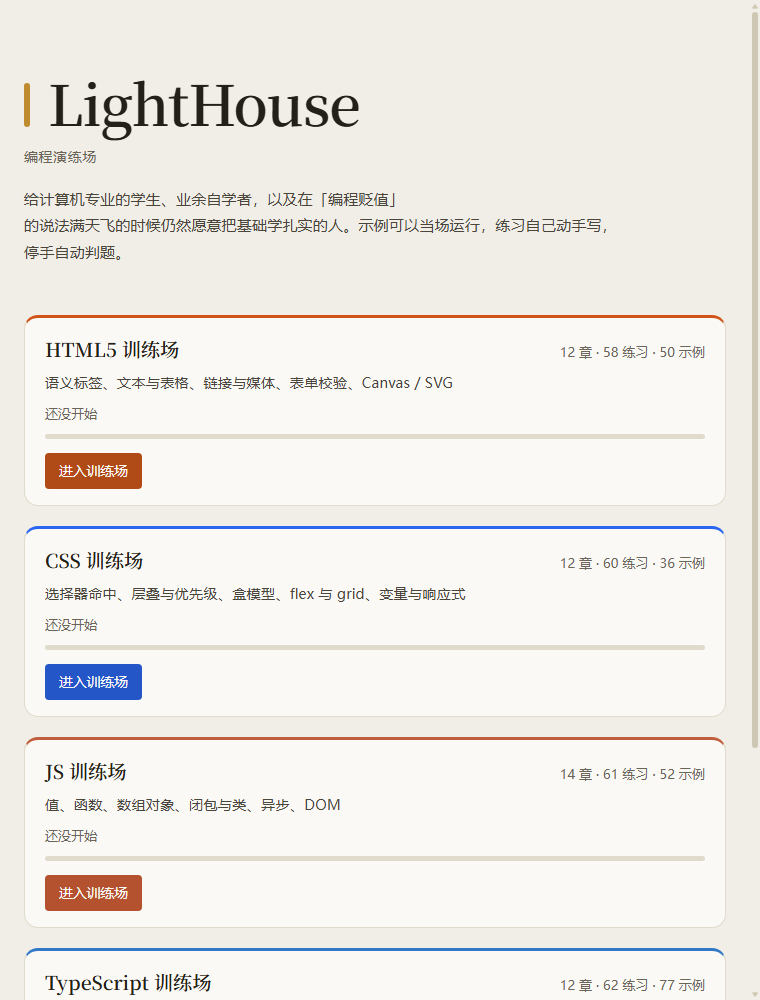
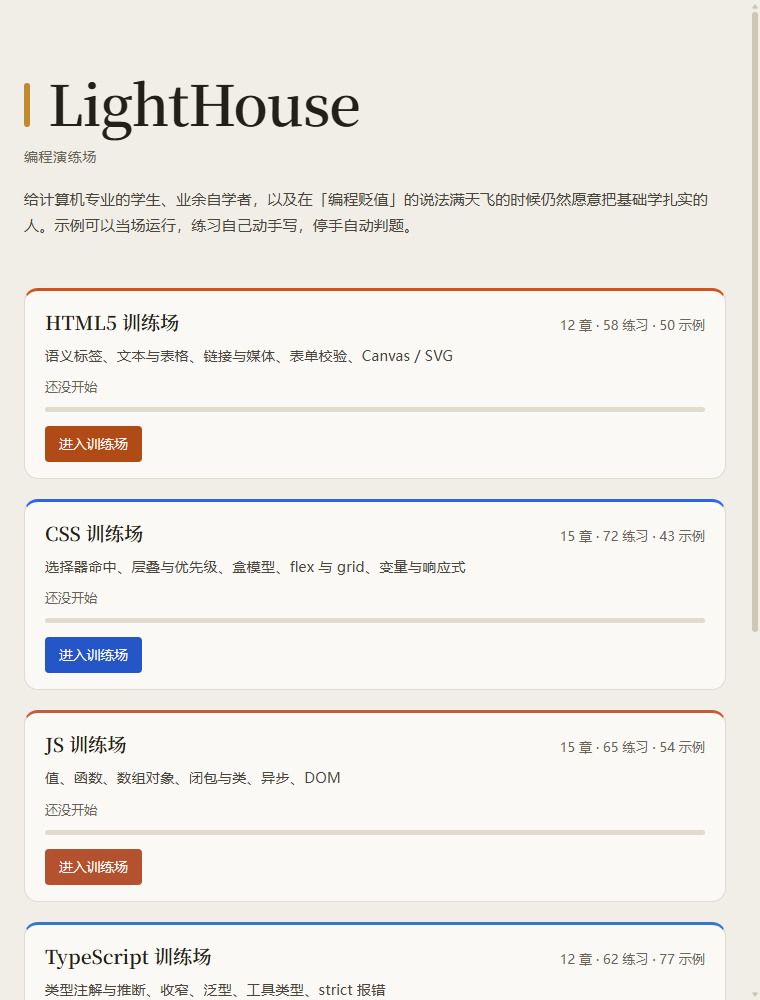
README 按当前内容更新：补 vue-lab、修正端口与校验清单，重截入口页截图
- 目录结构补 vue-lab 与 LICENSE，写明 ts-lab / vue-lab 的 vendor/
- 单站端口改 8877–8881；单站验收脚本清单按各站实际文件重写
  （每站 verify-content + verify-ui，另有各站专门的一支）
- 断言一栏改称「练习里的断言」，并说明与各站 verify-content 口径的差别（ts 516 / vue 428）
- 限制一节：仓库体积改按 git ls-files 口径（16.6 MB，原写约 15 MB），补 Vue 站首屏约 1 MB
- 许可一节补 MIT 与 vendor 里的第三方许可
- docs/01 端口表补 vue-lab、whoami 段改五座；docs/04 手机版式契约改五座
- 入口页截图重截：宽屏换 1200 宽那张（五张卡完整），窄屏重截

Changed region(s): [[0.0303, 0.186, 0.9987, 1.0], [0.7263, 0.31, 0.9382, 0.372]]

diff --git a/README.md b/README.md
@@ -14,7 +14,7 @@
 | 在线看（推荐） | **https://naimiochan.github.io/LightHouse/** —— 各座站都在这里，进度照样记（同一域名下） |
 | 起本地服务 | 双击 `run.bat`，浏览器打开 `http://127.0.0.1:8876/index.html?v=<每轮不同的令牌>`；关掉页面后命令行窗口自己关 |
 | 完全离线 | 双击 `index.html`（`file://` 直开，每座站都支持） |
-| 只跑某一座站 | 进那座目录双击它自己的 `run.bat`（端口 8877–8880），互不干扰 |
+| 只跑某一座站 | 进那座目录双击它自己的 `run.bat`（端口 8877–8881），互不干扰 |
 
 **在线就够了**：站点没有任何后端，GitHub Pages 上跑的就是这套文件，各座站在同一个域名下，入口页一样读得到进度。
 本地服务只在三种情况下有用——没有网、在改内容想立刻看到效果、或者要跑校验脚本（`tools/` 里的东西要 node 与本地服务）。
@@ -35,8 +35,11 @@
 | TypeScript 训练场 | 12 章 · 62 练习 · 77 示例 · 219 断言 | 类型注解与推断、收窄、接口与泛型、工具类型、类与守卫、strict 报错与模块 | 会写基本 JS | `ts-lab/` |
 | Vue 3 训练场 | 12 章 · 48 练习 · 48 示例 · 203 断言 | 单文件组件、响应式与计算属性、条件与列表、事件与表单、组件通信、生命周期 | 会写基本 JS 与 HTML | `vue-lab/` |
 
-合计 66 章 · 305 个练习 · 272 个示例。这些数字由 `tools/build-manifest.mjs` 从各站内容里读出来生成到
+合计 66 章 · 305 个练习 · 272 个示例 · 1106 条练习断言。这些数字由 `tools/build-manifest.mjs` 从各站内容里读出来生成到
 `assets/js/manifest.js`，入口页只读这份清单；改动内容后重跑生成器，数字不会过期。
+
+断言那一栏数的是**练习里的断言**，示例自带的断言不计入。`ts-lab` 与 `vue-lab` 自己的 `verify-content.mjs`
+报的数字更大（516 与 428），因为那两份把示例里的断言也算上了。
 
 ![入口页](docs/screenshot-portal.png)
 
@@ -55,29 +58,37 @@ LightHouse/
 │  ├─ labs.json               各站的文字（标题、一句话、进度键、颜色令牌名）
 │  ├─ build-manifest.mjs      清单生成器
 │  ├─ verify-manifest.mjs     清单与内容逐字节对账
-│  ├─ verify-all.mjs          各站的 node 侧校验（内容契约、括号配对、类型判题）
+│  ├─ verify-all.mjs          各站的 node 侧校验（内容契约、括号配对、类型判题、SFC 改写内核）
 │  ├─ verify-portal.mjs       真浏览器验收：入口页 + 各站入口页 + 进度分支
 │  └─ lib/cdp.mjs             起服务、起无头 Edge、连 CDP 的公共骨架
-├─ docs/                      合并架构、校验分层、语言与规模、方向评估与实测数据
-├─ html5-lab/  css-lab/  js-lab/  ts-lab/
-└─ DESIGN.md  AGENTS.md
+├─ docs/                      合并架构、校验分层、语言与规模、手机版式、方向评估与实测数据
+├─ html5-lab/  css-lab/  js-lab/  ts-lab/  vue-lab/
+│     每座站自带 AGENTS.md / DESIGN.md / 内容契约 / 引擎 / tools / serve.py / run.bat；
+│     ts-lab 与 vue-lab 另有 vendor/ 放第三方产物（类型检查器、Vue 运行时与 SFC 编译器）
+└─ DESIGN.md  AGENTS.md  LICENSE
 ```
 
 前四座站在并入时**一个字节都没改**（并入前用 `diff -r` 逐字节比对过）。它们各自带 `AGENTS.md`、`DESIGN.md`、
 内容契约、校验脚本与自己的 `serve.py`，可以单独拿出来跑；合并只加了门厅，没有动屋子（见 `docs/01-merge-architecture.md`）。
+`vue-lab` 是并入之后写的第五座，自身同样自洽，只是不经过「字节保真搬运」这一步；它接入时跑过的对账记在
+`docs/02-verification.md` 的「第五座站（vue-lab）接入后的对账」一节。
 
 ## 校验
 
 ```bash
 node tools/verify-manifest.mjs     # 清单是否与内容同步、入口页有没有写死某一座站（重算一遍逐字节比对）
-node tools/verify-all.mjs          # 各站的 node 侧校验，含各站 serve.py 的关窗即退
-node tools/verify-portal.mjs       # 真浏览器：入口页与各站入口页、进度显示、资源无 404、file:// 直开
+node tools/verify-all.mjs          # 各站的 node 侧校验：内容契约、括号配对、类型判题、SFC 改写内核（含各站 serve.py 的关窗即退）
+node tools/verify-portal.mjs       # 真浏览器：入口页与五座站入口页、进度显示、资源无 404、file:// 直开（当前 137 项）
 ```
 
-改过某一座站的内容或引擎后，还要在那座目录里跑它自己的真浏览器验收（最权威，也最慢）：
+改过某一座站的内容或引擎后，还要在那座目录里跑它自己的真浏览器验收（最权威，也最慢）。每座都有一支
+`verify-content.mjs`（内容契约）与一支 `verify-ui.mjs`（真实按键、四档视口），此外各有自己专门的一支：
 
 ```bash
-cd js-lab && node tools/verify-ui.mjs      # 另外三座：verify-browser.mjs / verify-pages.mjs
+cd html5-lab && node tools/verify-browser.mjs   # 真渲染的几何与声明（css-lab 同款）
+cd js-lab    && node tools/verify-ui.mjs        # 打字 → 自动运行 → 断言与进度
+cd ts-lab    && node tools/verify-judge.mjs     # 真类型诊断、等价判定（另 verify-types.mjs）
+cd vue-lab   && node tools/verify-browser.mjs   # http 与 file:// 各跑一遍全部练习（另 verify-compile.mjs）
 ```
 
 分层与各脚本覆盖面见 `docs/02-verification.md`。
@@ -85,7 +96,9 @@ cd js-lab && node tools/verify-ui.mjs      # 另外三座：verify-browser.mjs /
 ## 诚实说明的限制
 
 - **TypeScript 站首次打开要加载约 12 MB 的类型检查器**（`ts-lab/vendor/`）。只需一次，之后每次判题 2–8 ms；
-  `file://` 直开也能用。这也是本仓库约 15 MB 里的大头（这个目录 12.1 MB）。
+  `file://` 直开也能用。这也是本仓库 16.6 MB（`git ls-files` 口径）里的大头，这个目录占 12.0 MB。
+- **Vue 站首次打开要加载约 1 MB 的 Vue 运行时与单文件组件编译器**（`vue-lab/vendor/`，两个源码字符串包合计 0.94 MB）。
+  只需一次；`file://` 下也能加载（外链 `<script src>` 在 `file://` 读不到，所以这两个包是以源码字符串入库的）。
 - **判题不是编译器级完备的**：JS/HTML/CSS 的练习跑在 `sandbox="allow-scripts"` 的 iframe 里，
   死循环会被 5 秒超时掐掉（页面会提示「可能是循环没写终止条件」），异步示例最多等 1.5 秒。
   控制台输出格式与 DevTools 不完全一致。
@@ -94,3 +107,7 @@ cd js-lab && node tools/verify-ui.mjs      # 另外三座：verify-browser.mjs /
   强行统一是纯粹的回归风险；要不要抽公共内核是另一件事，见 `docs/01-merge-architecture.md`。
 - **进度只看得到同一浏览器**：存在 `localStorage`，换浏览器或清缓存就回到零。入口页只读，不提供重置
   （重置在每座站自己的顶栏里）。
+
+## 许可
+
+MIT，见 `LICENSE`。各站 `vendor/` 里的第三方产物随附各自的许可文本（TypeScript 为 Apache-2.0，Vue 运行时为 MIT）。

diff --git a/docs/04-mobile-layout.md b/docs/04-mobile-layout.md
@@ -2,7 +2,7 @@
 
 四座训练场的引擎是各自独立的（各自 `app.css` / `app.js` / `render.js`，见根 `AGENTS.md` 铁律 4），
 但手机上的形态必须一致，否则会出现「js-lab 能开目录抽屉、css-lab 不能」这种四不像。
-这一页是那套共享契约的**唯一来源**；改之前先读，改完四座都要跑各自的 `tools/verify-ui.mjs`。
+这一页是那套共享契约的**唯一来源**（`vue-lab` 也在内，共五座）；改之前先读，改完各座都要跑自己的 `tools/verify-ui.mjs`。
 
 ## 为什么是 900px
 
@@ -10,7 +10,7 @@
 版式就整体切成桌上电脑那一套。不用 768px——390px 的横屏手机约 844px 宽，用 768 会让它掉回桌面板式
 （240px 侧栏 + 挤扁的正文）。
 
-## 四条硬规则（四座站一致）
+## 四条硬规则（各座站一致）
 
 1. **目录栏在窄屏变成抽屉，不占正文宽度。**
    `.sidebar` 改 `position: fixed`（`top: 56px; bottom: 0`，宽 `82vw`，上限 300px），
@@ -50,7 +50,7 @@ html { height: 100%; }
 body { min-height: 100%; }
 ```
 
-四座站的 `base.css` 都已按这个写。各站 `verify-ui.mjs` 里有一条断言盯着它：
+五座站的 `base.css` 都已按这个写。各站 `verify-ui.mjs` 里有一条断言盯着它：
 滚到 1600px 后顶栏 `top` 必须仍是 0，且窄屏下「目录」按钮的位置用 `document.elementFromPoint` 命中的就是它自己。
 
 ## 验收（不能只看截图）
@@ -59,6 +59,6 @@ body { min-height: 100%; }
   ——侧栏 `position: fixed`、抽屉默认 `visibility: hidden`、正文占满 ≥98%、顶栏高 ≤60px、
   无横向溢出、编辑器字号 ≥16px、目录项 ≥44px，真点按钮展开、点章节链接自动收起、点遮罩收起。
 - 根 `tools/verify-portal.mjs`：入口页多一档 390px（卡片单列、无溢出、进入按钮够点），
-  四座站入口页各多三条窄屏断言。
+  各座站入口页都多三条窄屏断言。
 - CSS 断言只信 `getComputedStyle` 与 `getBoundingClientRect`；抽屉开合状态看 `body.nav-open`
   与 `visibility`，**不要只看 `transform`**——它受过渡动画影响，读到的可能是动画中途的值。

diff --git a/docs/01-merge-architecture.md b/docs/01-merge-architecture.md
@@ -24,17 +24,18 @@
 
 | 服务 | 端口 | 说明 |
 |---|---|---|
-| 根 `serve.py` | 8876 | 入口页 + 四座站在同一源：`/html5-lab/` `/css-lab/` `/js-lab/` `/ts-lab/` |
+| 根 `serve.py` | 8876 | 入口页 + 各座站在同一源：`/html5-lab/` `/css-lab/` `/js-lab/` `/ts-lab/` `/vue-lab/` |
 | `html5-lab/serve.py` | 8878 | 单站启动（自带令牌入口、SSE 保活、关窗即退） |
 | `ts-lab/serve.py` | 8879 | 同上 |
 | `css-lab/serve.py` | 8880 | 同上 |
 | `js-lab/serve.py` | 8877 | 同上 |
+| `vue-lab/serve.py` | 8881 | 同上（并入后新写的第五座） |
 
 端口都从指定值往后找空闲的，所以并行开着也不会互相抢。
 
 ## `/__whoami` 与旧缓存检测
 
-四座站的 `app.js` 里都有一段检测：页面挂了保活连接就正常，否则十几秒后问一次 `/__whoami`，
+五座站的 `app.js` 里都有一段检测：页面挂了保活连接就正常，否则十几秒后问一次 `/__whoami`，
 如果响应以「本站名 serve.py」开头，就说明「你打开的是浏览器缓存里的旧版本」，插一条横幅提示强制刷新。
 合并后页面由根服务发出，根服务于是按请求的 `Referer` 认出请求属于哪座站，回
 `css-lab serve.py (LightHouse 入口服务)` 这样的字符串——各站那段逻辑不用改一个字。
